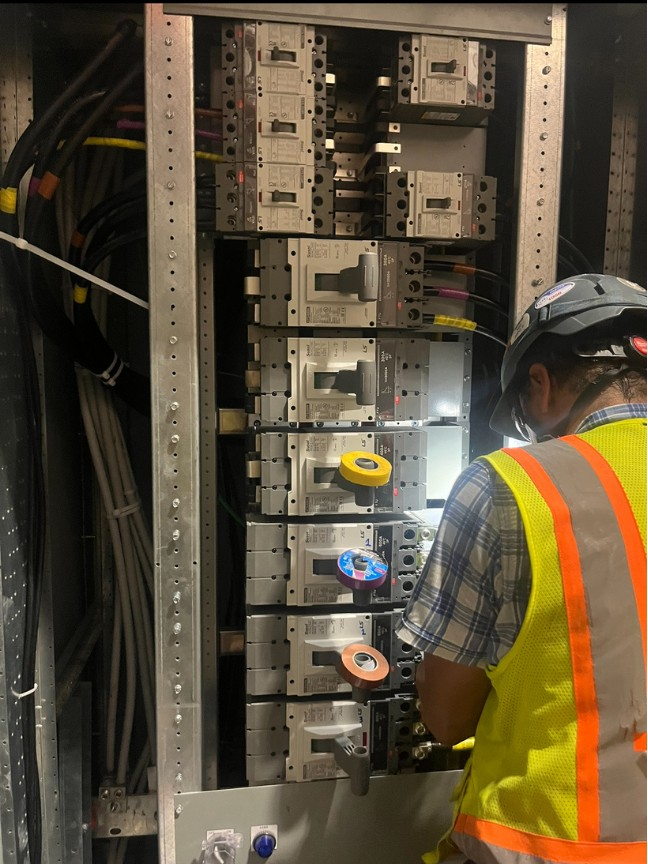
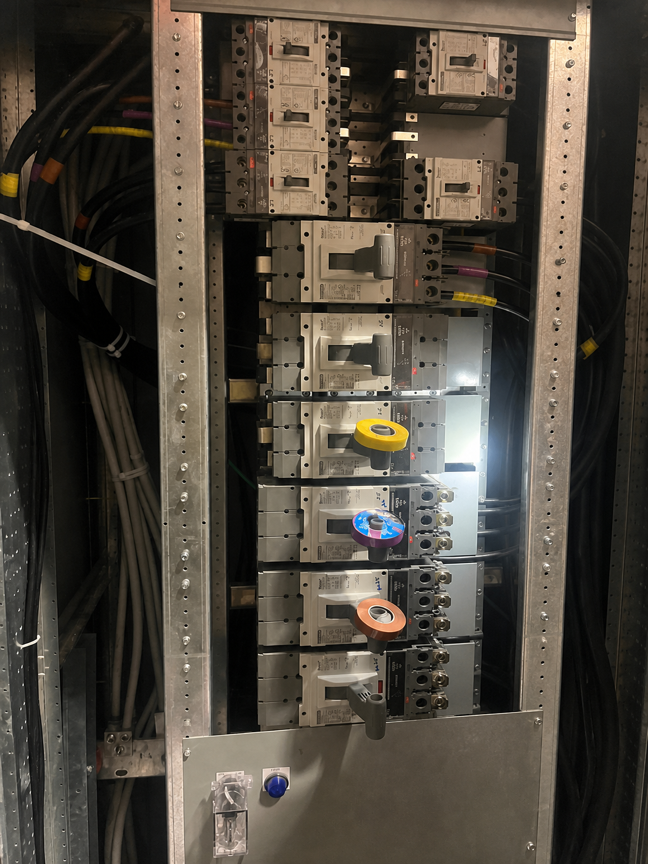
Apply marketing updates and add security review report.
Update logos, hero and section photos, contact details, and retouched images per marketing feedback, and document a clean pre-deploy security review.

diff --git a/temporary-power-solutions.html b/temporary-power-solutions.html
@@ -23,7 +23,7 @@
 
     <section class="section"><div class="wrap feature-split">
       <div class="feature-copy reveal"><p class="eyebrow">The temporary power ecosystem</p><h2>More Than a Piece of Equipment.</h2><div class="copy"><p>Temporary power is a system.</p><p>It begins with the source, moves through distribution, and ultimately has to deliver safe, reliable power where work is actually happening.</p><p>5K Power brings those pieces together into a coordinated temporary power ecosystem built around site requirements, project phases, and real-world deployment.</p></div></div>
-      <div class="media-frame reveal"><img src="images/field-electrician.png" alt="Electrician working on temporary power distribution equipment"></div>
+      <div class="media-frame reveal"><img src="images/field-electrician.png" alt="Temporary power distribution equipment in an electrical panel"></div>
     </div></section>
 
     <section class="section dark"><div class="wrap">
@@ -48,7 +48,7 @@
     <section class="section cta-band"><div class="wrap cta-inner reveal"><div><p class="eyebrow">Keep the project moving</p><h2>Need Temporary Power?</h2><p class="lede">Tell us about your project, power requirements, and schedule.</p></div><a class="btn" href="request-a-quote.html">Request a Temporary Power Quote <span class="arrow">→</span></a></div></section>
   </main>
 
-  <footer><div class="wrap footer-main"><div class="footer-brand"><img src="logo/header-logo.png" alt="5K Power"><p class="footer-tagline">Power Without Compromise.</p><p class="footer-meta">Veteran-Operated | Nationwide Capability</p><p class="footer-meta">A 5K Holdings Company</p><a class="social-link" href="https://www.linkedin.com/company/5k-power" target="_blank" rel="noopener noreferrer"><svg viewBox="0 0 24 24" aria-hidden="true"><path d="M20.45 20.45h-3.56v-5.57c0-1.33-.03-3.04-1.86-3.04-1.86 0-2.14 1.45-2.14 2.94v5.67H9.34V8.99h3.41v1.57h.05c.47-.9 1.64-1.86 3.37-1.86 3.6 0 4.27 2.37 4.27 5.46v6.29zM5.32 7.43a2.06 2.06 0 1 1 0-4.12 2.06 2.06 0 0 1 0 4.12zM7.1 20.45H3.54V8.99H7.1v11.46z"/></svg>LinkedIn</a></div><nav class="footer-links"><a href="ul-certified-manufacturing.html">UL-Certified Manufacturing</a><a href="temporary-power-solutions.html">Temporary Power Solutions</a><a href="integrated-skid-solutions.html">Integrated Skid Solutions</a><a href="careers.html">Careers</a><a href="request-a-quote.html">Request a Quote</a></nav></div><div class="wrap footer-bottom"><span>© 2026 5K Holdings. All rights reserved.</span><span>411 N Sam Houston Parkway E, Suite 600, Houston, TX 77060</span></div></footer>
+  <footer><div class="wrap footer-main"><div class="footer-brand"><img class="footer-logo" src="logo/5K POWER-logo-white.svg" alt="5K Power"><p class="footer-tagline">Power Without Compromise.</p><p class="footer-meta">Veteran-Operated | Nationwide Capability</p><p class="footer-meta">A 5K Holdings Company</p><a class="social-link" href="https://www.linkedin.com/company/5k-power" target="_blank" rel="noopener noreferrer"><svg viewBox="0 0 24 24" aria-hidden="true"><path d="M20.45 20.45h-3.56v-5.57c0-1.33-.03-3.04-1.86-3.04-1.86 0-2.14 1.45-2.14 2.94v5.67H9.34V8.99h3.41v1.57h.05c.47-.9 1.64-1.86 3.37-1.86 3.6 0 4.27 2.37 4.27 5.46v6.29zM5.32 7.43a2.06 2.06 0 1 1 0-4.12 2.06 2.06 0 0 1 0 4.12zM7.1 20.45H3.54V8.99H7.1v11.46z"/></svg>LinkedIn</a></div><nav class="footer-links"><a href="ul-certified-manufacturing.html">UL-Certified Manufacturing</a><a href="temporary-power-solutions.html">Temporary Power Solutions</a><a href="integrated-skid-solutions.html">Integrated Skid Solutions</a><a href="careers.html">Careers</a><a href="request-a-quote.html">Request a Quote</a></nav></div><div class="wrap footer-bottom"><span>© 2026 5K Holdings. All rights reserved.</span><span>411 N Sam Houston Parkway E, Suite 600, Houston, TX 77060</span></div></footer>
   <script src="site.js"></script>
 </body>
 </html>

diff --git a/integrated-skid-solutions.html b/integrated-skid-solutions.html
@@ -33,7 +33,7 @@
 
     <section class="section white"><div class="wrap feature-split">
       <div class="feature-copy reveal"><p class="eyebrow">From equipment receipt through final setting</p><h2>One Integrated Scope.</h2><ul class="check-list"><li>Receipt and management of owner-furnished equipment</li><li>Equipment placement and assembly</li><li>Integral electrical connections</li><li>QA/QC inspections and documentation</li><li>Commissioning, NETCAB, and NETA testing coordination</li><li>Logistics, delivery, and final setting</li></ul></div>
-      <div class="media-frame reveal"><img src="images/technician-cabinet.png" alt="Technician reviewing an electrical cabinet during assembly"></div>
+      <div class="media-frame reveal"><img src="images/technician-cabinet.png" alt="Electrical cabinet prepared during skid integration"></div>
     </div></section>
 
     <section class="section black"><div class="wrap intro-grid">
@@ -49,7 +49,7 @@
     <section class="section cta-band"><div class="wrap cta-inner reveal"><div><p class="eyebrow">Engineered to perform. Built to last.</p><h2>Talk to Us About Your Skid Requirements.</h2></div><a class="btn" href="request-a-quote.html">Request a Skid Quote <span class="arrow">→</span></a></div></section>
   </main>
 
-  <footer><div class="wrap footer-main"><div class="footer-brand"><img src="logo/header-logo.png" alt="5K Power"><p class="footer-tagline">Power Without Compromise.</p><p class="footer-meta">Veteran-Operated | Nationwide Capability</p><p class="footer-meta">A 5K Holdings Company</p><a class="social-link" href="https://www.linkedin.com/company/5k-power" target="_blank" rel="noopener noreferrer"><svg viewBox="0 0 24 24" aria-hidden="true"><path d="M20.45 20.45h-3.56v-5.57c0-1.33-.03-3.04-1.86-3.04-1.86 0-2.14 1.45-2.14 2.94v5.67H9.34V8.99h3.41v1.57h.05c.47-.9 1.64-1.86 3.37-1.86 3.6 0 4.27 2.37 4.27 5.46v6.29zM5.32 7.43a2.06 2.06 0 1 1 0-4.12 2.06 2.06 0 0 1 0 4.12zM7.1 20.45H3.54V8.99H7.1v11.46z"/></svg>LinkedIn</a></div><nav class="footer-links"><a href="ul-certified-manufacturing.html">UL-Certified Manufacturing</a><a href="temporary-power-solutions.html">Temporary Power Solutions</a><a href="integrated-skid-solutions.html">Integrated Skid Solutions</a><a href="careers.html">Careers</a><a href="request-a-quote.html">Request a Quote</a></nav></div><div class="wrap footer-bottom"><span>© 2026 5K Holdings. All rights reserved.</span><span>411 N Sam Houston Parkway E, Suite 600, Houston, TX 77060</span></div></footer>
+  <footer><div class="wrap footer-main"><div class="footer-brand"><img class="footer-logo" src="logo/5K POWER-logo-white.svg" alt="5K Power"><p class="footer-tagline">Power Without Compromise.</p><p class="footer-meta">Veteran-Operated | Nationwide Capability</p><p class="footer-meta">A 5K Holdings Company</p><a class="social-link" href="https://www.linkedin.com/company/5k-power" target="_blank" rel="noopener noreferrer"><svg viewBox="0 0 24 24" aria-hidden="true"><path d="M20.45 20.45h-3.56v-5.57c0-1.33-.03-3.04-1.86-3.04-1.86 0-2.14 1.45-2.14 2.94v5.67H9.34V8.99h3.41v1.57h.05c.47-.9 1.64-1.86 3.37-1.86 3.6 0 4.27 2.37 4.27 5.46v6.29zM5.32 7.43a2.06 2.06 0 1 1 0-4.12 2.06 2.06 0 0 1 0 4.12zM7.1 20.45H3.54V8.99H7.1v11.46z"/></svg>LinkedIn</a></div><nav class="footer-links"><a href="ul-certified-manufacturing.html">UL-Certified Manufacturing</a><a href="temporary-power-solutions.html">Temporary Power Solutions</a><a href="integrated-skid-solutions.html">Integrated Skid Solutions</a><a href="careers.html">Careers</a><a href="request-a-quote.html">Request a Quote</a></nav></div><div class="wrap footer-bottom"><span>© 2026 5K Holdings. All rights reserved.</span><span>411 N Sam Houston Parkway E, Suite 600, Houston, TX 77060</span></div></footer>
   <script src="site.js"></script>
 </body>
 </html>

diff --git a/careers.html b/careers.html
@@ -28,13 +28,13 @@
 
     <section class="section black"><div class="wrap feature-split">
       <div class="feature-copy reveal"><p class="eyebrow">Open positions</p><h2>Current Opportunities.</h2><p class="lede">Current opportunities will be listed here as they become available.</p><p class="copy" style="margin-top:1.2rem">5K Power is finalizing its recruiting workflow. Position details and the official application destination will be added here once confirmed.</p></div>
-      <div class="media-frame reveal"><img src="images/technician-cabinet.png" alt="5K Power team member inspecting electrical equipment"></div>
+      <div class="media-frame reveal"><img src="images/technician-cabinet.png" alt="Open electrical control cabinet with wiring in a production environment"></div>
     </div></section>
 
     <section class="section cta-band"><div class="wrap cta-inner reveal"><div><p class="eyebrow">Power takes people</p><h2>Interested in 5K Power?</h2><p class="lede">Follow 5K Power on LinkedIn for company and hiring updates.</p></div><a class="btn" href="https://www.linkedin.com/company/5k-power" target="_blank" rel="noopener noreferrer">View 5K Power on LinkedIn <span class="arrow">→</span></a></div></section>
   </main>
 
-  <footer><div class="wrap footer-main"><div class="footer-brand"><img src="logo/header-logo.png" alt="5K Power"><p class="footer-tagline">Power Without Compromise.</p><p class="footer-meta">Veteran-Operated | Nationwide Capability</p><p class="footer-meta">A 5K Holdings Company</p><a class="social-link" href="https://www.linkedin.com/company/5k-power" target="_blank" rel="noopener noreferrer"><svg viewBox="0 0 24 24" aria-hidden="true"><path d="M20.45 20.45h-3.56v-5.57c0-1.33-.03-3.04-1.86-3.04-1.86 0-2.14 1.45-2.14 2.94v5.67H9.34V8.99h3.41v1.57h.05c.47-.9 1.64-1.86 3.37-1.86 3.6 0 4.27 2.37 4.27 5.46v6.29zM5.32 7.43a2.06 2.06 0 1 1 0-4.12 2.06 2.06 0 0 1 0 4.12zM7.1 20.45H3.54V8.99H7.1v11.46z"/></svg>LinkedIn</a></div><nav class="footer-links"><a href="ul-certified-manufacturing.html">UL-Certified Manufacturing</a><a href="temporary-power-solutions.html">Temporary Power Solutions</a><a href="integrated-skid-solutions.html">Integrated Skid Solutions</a><a href="careers.html">Careers</a><a href="request-a-quote.html">Request a Quote</a></nav></div><div class="wrap footer-bottom"><span>© 2026 5K Holdings. All rights reserved.</span><span>411 N Sam Houston Parkway E, Suite 600, Houston, TX 77060</span></div></footer>
+  <footer><div class="wrap footer-main"><div class="footer-brand"><img class="footer-logo" src="logo/5K POWER-logo-white.svg" alt="5K Power"><p class="footer-tagline">Power Without Compromise.</p><p class="footer-meta">Veteran-Operated | Nationwide Capability</p><p class="footer-meta">A 5K Holdings Company</p><a class="social-link" href="https://www.linkedin.com/company/5k-power" target="_blank" rel="noopener noreferrer"><svg viewBox="0 0 24 24" aria-hidden="true"><path d="M20.45 20.45h-3.56v-5.57c0-1.33-.03-3.04-1.86-3.04-1.86 0-2.14 1.45-2.14 2.94v5.67H9.34V8.99h3.41v1.57h.05c.47-.9 1.64-1.86 3.37-1.86 3.6 0 4.27 2.37 4.27 5.46v6.29zM5.32 7.43a2.06 2.06 0 1 1 0-4.12 2.06 2.06 0 0 1 0 4.12zM7.1 20.45H3.54V8.99H7.1v11.46z"/></svg>LinkedIn</a></div><nav class="footer-links"><a href="ul-certified-manufacturing.html">UL-Certified Manufacturing</a><a href="temporary-power-solutions.html">Temporary Power Solutions</a><a href="integrated-skid-solutions.html">Integrated Skid Solutions</a><a href="careers.html">Careers</a><a href="request-a-quote.html">Request a Quote</a></nav></div><div class="wrap footer-bottom"><span>© 2026 5K Holdings. All rights reserved.</span><span>411 N Sam Houston Parkway E, Suite 600, Houston, TX 77060</span></div></footer>
   <script src="site.js"></script>
 </body>
 </html>

diff --git a/request-a-quote.html b/request-a-quote.html
@@ -52,12 +52,15 @@
       <aside class="quote-aside reveal">
         <h3>Need Help Defining the Solution?</h3>
         <p class="copy">That's okay. Send us what you have, and our team can review the project requirements with you.</p>
-        <address><strong>Cray Burrell</strong>Vice President, 5K Power<br><a href="mailto:info@5kpower.com">info@5kpower.com</a></address>
+        <address>
+          <a href="tel:+13463594880">346-359-4880</a><br>
+          <a href="mailto:information@5kpower.com">information@5kpower.com</a>
+        </address>
       </aside>
     </div></section>
   </main>
 
-  <footer><div class="wrap footer-main"><div class="footer-brand"><img src="logo/header-logo.png" alt="5K Power"><p class="footer-tagline">Power Without Compromise.</p><p class="footer-meta">Veteran-Operated | Nationwide Capability</p><p class="footer-meta">A 5K Holdings Company</p><a class="social-link" href="https://www.linkedin.com/company/5k-power" target="_blank" rel="noopener noreferrer"><svg viewBox="0 0 24 24" aria-hidden="true"><path d="M20.45 20.45h-3.56v-5.57c0-1.33-.03-3.04-1.86-3.04-1.86 0-2.14 1.45-2.14 2.94v5.67H9.34V8.99h3.41v1.57h.05c.47-.9 1.64-1.86 3.37-1.86 3.6 0 4.27 2.37 4.27 5.46v6.29zM5.32 7.43a2.06 2.06 0 1 1 0-4.12 2.06 2.06 0 0 1 0 4.12zM7.1 20.45H3.54V8.99H7.1v11.46z"/></svg>LinkedIn</a></div><nav class="footer-links"><a href="ul-certified-manufacturing.html">UL-Certified Manufacturing</a><a href="temporary-power-solutions.html">Temporary Power Solutions</a><a href="integrated-skid-solutions.html">Integrated Skid Solutions</a><a href="careers.html">Careers</a><a href="request-a-quote.html">Request a Quote</a></nav></div><div class="wrap footer-bottom"><span>© 2026 5K Holdings. All rights reserved.</span><span>411 N Sam Houston Parkway E, Suite 600, Houston, TX 77060</span></div></footer>
+  <footer><div class="wrap footer-main"><div class="footer-brand"><img class="footer-logo" src="logo/5K POWER-logo-white.svg" alt="5K Power"><p class="footer-tagline">Power Without Compromise.</p><p class="footer-meta">Veteran-Operated | Nationwide Capability</p><p class="footer-meta">A 5K Holdings Company</p><a class="social-link" href="https://www.linkedin.com/company/5k-power" target="_blank" rel="noopener noreferrer"><svg viewBox="0 0 24 24" aria-hidden="true"><path d="M20.45 20.45h-3.56v-5.57c0-1.33-.03-3.04-1.86-3.04-1.86 0-2.14 1.45-2.14 2.94v5.67H9.34V8.99h3.41v1.57h.05c.47-.9 1.64-1.86 3.37-1.86 3.6 0 4.27 2.37 4.27 5.46v6.29zM5.32 7.43a2.06 2.06 0 1 1 0-4.12 2.06 2.06 0 0 1 0 4.12zM7.1 20.45H3.54V8.99H7.1v11.46z"/></svg>LinkedIn</a></div><nav class="footer-links"><a href="ul-certified-manufacturing.html">UL-Certified Manufacturing</a><a href="temporary-power-solutions.html">Temporary Power Solutions</a><a href="integrated-skid-solutions.html">Integrated Skid Solutions</a><a href="careers.html">Careers</a><a href="request-a-quote.html">Request a Quote</a></nav></div><div class="wrap footer-bottom"><span>© 2026 5K Holdings. All rights reserved.</span><span>411 N Sam Houston Parkway E, Suite 600, Houston, TX 77060</span></div></footer>
   <script src="site.js"></script>
 </body>
 </html>

diff --git a/ul-certified-manufacturing.html b/ul-certified-manufacturing.html
@@ -57,7 +57,7 @@
     <section class="section cta-band"><div class="wrap cta-inner reveal"><div><p class="eyebrow">Built for the schedule</p><h2>Reduce Lead-Time Exposure.</h2></div><a class="btn" href="request-a-quote.html">Request a Manufacturing Quote <span class="arrow">→</span></a></div></section>
   </main>
 
-  <footer><div class="wrap footer-main"><div class="footer-brand"><img src="logo/header-logo.png" alt="5K Power"><p class="footer-tagline">Power Without Compromise.</p><p class="footer-meta">Veteran-Operated | Nationwide Capability</p><p class="footer-meta">A 5K Holdings Company</p><a class="social-link" href="https://www.linkedin.com/company/5k-power" target="_blank" rel="noopener noreferrer"><svg viewBox="0 0 24 24" aria-hidden="true"><path d="M20.45 20.45h-3.56v-5.57c0-1.33-.03-3.04-1.86-3.04-1.86 0-2.14 1.45-2.14 2.94v5.67H9.34V8.99h3.41v1.57h.05c.47-.9 1.64-1.86 3.37-1.86 3.6 0 4.27 2.37 4.27 5.46v6.29zM5.32 7.43a2.06 2.06 0 1 1 0-4.12 2.06 2.06 0 0 1 0 4.12zM7.1 20.45H3.54V8.99H7.1v11.46z"/></svg>LinkedIn</a></div><nav class="footer-links"><a href="ul-certified-manufacturing.html">UL-Certified Manufacturing</a><a href="temporary-power-solutions.html">Temporary Power Solutions</a><a href="integrated-skid-solutions.html">Integrated Skid Solutions</a><a href="careers.html">Careers</a><a href="request-a-quote.html">Request a Quote</a></nav></div><div class="wrap footer-bottom"><span>© 2026 5K Holdings. All rights reserved.</span><span>411 N Sam Houston Parkway E, Suite 600, Houston, TX 77060</span></div></footer>
+  <footer><div class="wrap footer-main"><div class="footer-brand"><img class="footer-logo" src="logo/5K POWER-logo-white.svg" alt="5K Power"><p class="footer-tagline">Power Without Compromise.</p><p class="footer-meta">Veteran-Operated | Nationwide Capability</p><p class="footer-meta">A 5K Holdings Company</p><a class="social-link" href="https://www.linkedin.com/company/5k-power" target="_blank" rel="noopener noreferrer"><svg viewBox="0 0 24 24" aria-hidden="true"><path d="M20.45 20.45h-3.56v-5.57c0-1.33-.03-3.04-1.86-3.04-1.86 0-2.14 1.45-2.14 2.94v5.67H9.34V8.99h3.41v1.57h.05c.47-.9 1.64-1.86 3.37-1.86 3.6 0 4.27 2.37 4.27 5.46v6.29zM5.32 7.43a2.06 2.06 0 1 1 0-4.12 2.06 2.06 0 0 1 0 4.12zM7.1 20.45H3.54V8.99H7.1v11.46z"/></svg>LinkedIn</a></div><nav class="footer-links"><a href="ul-certified-manufacturing.html">UL-Certified Manufacturing</a><a href="temporary-power-solutions.html">Temporary Power Solutions</a><a href="integrated-skid-solutions.html">Integrated Skid Solutions</a><a href="careers.html">Careers</a><a href="request-a-quote.html">Request a Quote</a></nav></div><div class="wrap footer-bottom"><span>© 2026 5K Holdings. All rights reserved.</span><span>411 N Sam Houston Parkway E, Suite 600, Houston, TX 77060</span></div></footer>
   <script src="site.js"></script>
 </body>
 </html>

diff --git a/styles.css b/styles.css
@@ -74,7 +74,7 @@ p + p { margin-top: 1.1rem; }
 .site-header.scrolled { height: 68px; border-color: var(--line-light); }
 .header-inner { height: 100%; display: flex; align-items: center; gap: 1.5rem; }
 .brand { flex: 0 0 auto; }
-.brand img { width: auto; height: 38px; }
+.brand img { width: auto; height: 38px; max-width: 240px; }
 .desktop-nav { display: none; margin-left: auto; align-items: center; gap: .2rem; }
 .desktop-nav > a, .nav-group > button {
   border: 0; background: none; color: var(--sand); padding: .8rem .65rem;
@@ -288,7 +288,7 @@ a:hover .arrow { transform: translateX(4px); }
 
 footer { background: var(--black); color: var(--sand); border-top: 1px solid var(--line-light); }
 .footer-main { padding: 4.5rem 0 2.5rem; display: grid; gap: 2.5rem; }
-.footer-brand img { width: min(320px, 80vw); height: auto; }
+.footer-brand img.footer-logo { width: auto; height: 112px; max-width: 140px; }
 .footer-tagline { margin-top: 1rem; font-style: italic; font-weight: 900; letter-spacing: -.01em; text-transform: uppercase; }
 .footer-meta { margin-top: .7rem; color: rgba(231,222,208,.58); font-size: .86rem; }
 .footer-links { display: grid; grid-template-columns: repeat(2, 1fr); gap: .6rem 1.5rem; align-content: start; }

diff --git a/index.html b/index.html
@@ -41,7 +41,7 @@
 
   <main>
     <section class="hero">
-      <div class="hero-media"><img src="images/technician-cabinet.png" alt="5K Power technician inspecting an electrical cabinet"></div>
+      <div class="hero-media"><img src="images/switch-panel-power-plant.jpg" alt="Electrical switchgear and power distribution equipment in an industrial facility"></div>
       <div class="hero-grid"></div>
       <div class="wrap hero-content">
         <p class="eyebrow reveal">Power solutions built for the real world</p>
@@ -149,7 +149,7 @@
   <footer>
     <div class="wrap footer-main">
       <div class="footer-brand">
-        <img src="logo/header-logo.png" alt="5K Power">
+        <img class="footer-logo" src="logo/5K POWER-logo-white.svg" alt="5K Power">
         <p class="footer-tagline">Power Without Compromise.</p>
         <p class="footer-meta">Veteran-Operated | Nationwide Capability</p>
         <p class="footer-meta">A 5K Holdings Company</p>

diff --git a/site.js b/site.js
@@ -67,7 +67,7 @@ if (quoteForm) {
         ? `Supporting document selected: ${selectedFile.name} (please attach it manually to this email draft)`
         : "Supporting document: None selected"
     ];
-    window.location.href = `mailto:info@5kpower.com?subject=${encodeURIComponent(subject)}&body=${encodeURIComponent(lines.join("\n"))}`;
+    window.location.href = `mailto:information@5kpower.com?subject=${encodeURIComponent(subject)}&body=${encodeURIComponent(lines.join("\n"))}`;
     const status = document.querySelector(".form-status");
     if (status) {
       status.style.display = "block";

diff --git a/SECURITY-REVIEW.md b/SECURITY-REVIEW.md
@@ -1,0 +1,64 @@
+# Security Review — 5K Power Site
+
+**Date:** August 24, 2026  
+**Scope:** Uncommitted changes (marketing updates, contact info, logo/photo edits)  
+**Repository:** [velkuraditya-ux/5K-Power](https://github.com/velkuraditya-ux/5K-Power)  
+**Site type:** Static HTML/CSS/JS (GitHub Pages)
+
+## Executive Summary
+
+Automated and manual security review found **no medium, high, or critical issues** in the pending changes. The site remains a client-side static marketing site with no backend, authentication, or server-side data handling.
+
+## Findings
+
+| Severity | Location | Finding |
+|----------|----------|---------|
+| — | — | No issues identified |
+
+## Areas Reviewed
+
+### Cross-site scripting (XSS)
+- No `innerHTML`, `eval()`, or dynamic script injection in changed code.
+- Form status messages use `textContent` with static strings.
+- SVG logos referenced via `<img src="...">`, which prevents script execution from SVG content.
+
+### Secrets and credentials
+- No API keys, tokens, passwords, or private credentials in source or assets.
+- Public contact details (`346-359-4880`, `information@5kpower.com`) are intentional marketing information.
+
+### Form handling (`site.js`)
+- Quote form uses `mailto:` navigation only; data stays in the user's local mail client.
+- Subject and body values are passed through `encodeURIComponent()` before use in the URL.
+- File attachments are not uploaded; users attach files manually to the email draft.
+
+### External links
+- LinkedIn links use `target="_blank"` with `rel="noopener noreferrer"`.
+- No new third-party scripts or embeds were introduced.
+
+### Dependencies and attack surface
+- No npm packages or server runtime in this static site.
+- No database, session management, or user accounts.
+
+## Informational Notes (Not Findings)
+
+1. **mailto length limits** — Very long form submissions may be truncated by some mail clients. This is a UX limitation, not a cross-user security risk.
+2. **Content Security Policy (CSP)** — Not configured at the HTML level. Optional hardening for GitHub Pages via hosting headers if desired.
+3. **HTTPS** — GitHub Pages serves over HTTPS by default when using the `github.io` domain.
+
+## Recommendations (Optional Hardening)
+
+| Priority | Recommendation |
+|----------|----------------|
+| Low | Add a CSP meta tag or GitHub Pages headers to restrict script/style sources to `'self'` and trusted CDNs (if any are added later). |
+| Low | Keep SVG assets served via `<img>` rather than inline SVG unless sanitized. |
+| Low | Re-run this review when adding analytics, chat widgets, or backend form handling. |
+
+## Review Method
+
+- Security Review subagent (uncommitted diff analysis)
+- Manual grep for secrets, unsafe DOM APIs, and insecure link patterns
+- Manual review of `site.js` form handler
+
+## Conclusion
+
+The pending marketing and contact updates are safe to deploy. No remediation is required before push to production.
